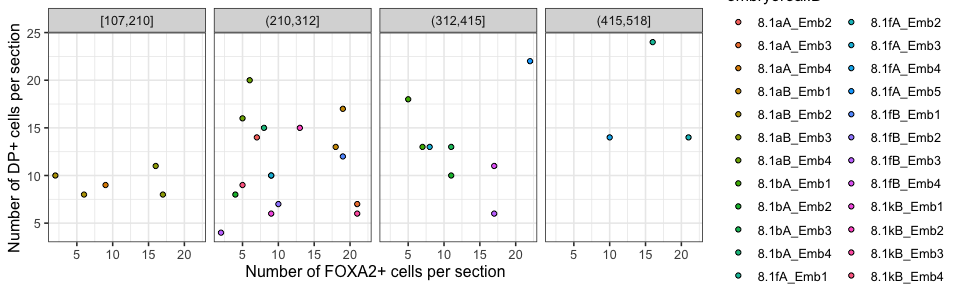
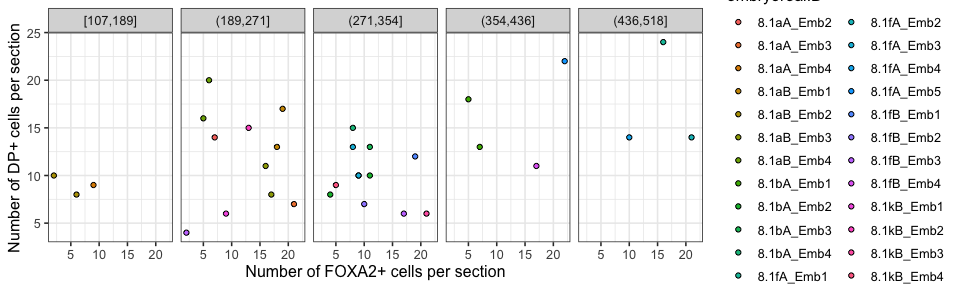
updated cKO imaging

diff --git a/r_files/DP_segment_FOXA2KO.md b/r_files/DP_segment_FOXA2KO.md
@@ -239,10 +239,11 @@ full_classified <- segment_cp_clean %>%
 
 ggplot(full_classified, aes(x=Location_Center_X,y=-Location_Center_Y)) +
   #geom_point(size=0.01) +
-  geom_point(size=0.1, aes(color=celltype))+
+  geom_point(size=0.05, aes(color=celltype))+
   facet_wrap( ~ embryoID) +
   # coord_fixed(ratio = 1, xlim = NULL, ylim = NULL, expand = TRUE, clip = "on") +
-  theme_bw()
+  theme_bw() +theme(panel.grid.major = element_blank(), panel.grid.minor = element_blank(),
+  panel.background = element_blank(), axis.line = element_line(colour = "black"))
 ```
 
 ![](DP_segment_FOXA2KO_files/figure-gfm/unnamed-chunk-8-1.png)<!-- -->
@@ -250,13 +251,32 @@ ggplot(full_classified, aes(x=Location_Center_X,y=-Location_Center_Y)) +
 ``` r
 ggplot(full_classified, aes(x=Location_Center_X,y=-Location_Center_Y)) +
   #geom_point(size=0.01) +
-  geom_point(size=0.1, aes(color=foxa2_positive))+
+  geom_point(size=0.05, aes(color=foxa2_positive))+
   facet_wrap( ~ embryoID) +
   # coord_fixed(ratio = 1, xlim = NULL, ylim = NULL, expand = TRUE, clip = "on") +
-  theme_bw()
+  theme_bw()+theme(panel.grid.major = element_blank(), panel.grid.minor = element_blank(),
+  panel.background = element_blank(), axis.line = element_line(colour = "black"))
 ```
 
 ![](DP_segment_FOXA2KO_files/figure-gfm/unnamed-chunk-8-2.png)<!-- -->
+
+``` r
+# ggplot(full_classified, aes(x=Location_Center_X,y=-Location_Center_Y)) +
+#   #geom_point(size=0.01) +
+#   geom_point(size = 0.3, stroke = 0, aes(color=celltype))+
+#   facet_wrap( ~ embryoID) +
+#   coord_fixed(ratio = 1, xlim = NULL, ylim = NULL, expand = TRUE, clip = "on") +
+#   theme_bw(base_size = 10) +theme(panel.grid.major = element_blank(), panel.grid.minor = element_blank(),
+#   panel.background = element_blank(), axis.line = element_line(colour = "black"))
+# 
+# ggplot(full_classified, aes(x=Location_Center_X,y=-Location_Center_Y)) +
+#   #geom_point(size=0.01) +
+#   geom_point(size = 0.3, stroke = 0, aes(color=foxa2_positive))+
+#   facet_wrap( ~ embryoID) +
+#   coord_fixed(ratio = 1, xlim = NULL, ylim = NULL, expand = TRUE, clip = "on") +
+#   theme_bw(base_size = 10)+theme(panel.grid.major = element_blank(), panel.grid.minor = element_blank(),
+#   panel.background = element_blank(), axis.line = element_line(colour = "black"))
+```
 
 #### Filter background SOX2+ FOXA2+ cells based on position
 
@@ -566,7 +586,7 @@ ggplot(classified_filtered_celltype_and_FOXA2_prop_ave, aes(x=mean_propFOXA2, y=
 
 # 4 bins of equal length
 
-classified_filtered_celltype_and_FOXA2_prop$NTdiscrete <- cut_interval(classified_filtered_celltype_and_FOXA2_prop$NTcells, 4)
+classified_filtered_celltype_and_FOXA2_prop$NTdiscrete <- cut_interval(classified_filtered_celltype_and_FOXA2_prop$NTcells, 5)
 
 ggplot(classified_filtered_celltype_and_FOXA2_prop, aes(x=Foxa2, y=DP)) +
   # geom_linerange(aes(xmin = mean_propFOXA2-sd_propFOXA2,xmax = mean_propFOXA2+sd_propFOXA2), color="#cecece") + 
@@ -579,6 +599,36 @@ ggplot(classified_filtered_celltype_and_FOXA2_prop, aes(x=Foxa2, y=DP)) +
 ```
 
 ![](DP_segment_FOXA2KO_files/figure-gfm/unnamed-chunk-21-1.png)<!-- -->
+
+``` r
+ggplot(classified_filtered_celltype_and_FOXA2_prop, aes(x=Foxa2, y=DP)) +
+  # geom_linerange(aes(xmin = mean_propFOXA2-sd_propFOXA2,xmax = mean_propFOXA2+sd_propFOXA2), color="#cecece") + 
+  # geom_linerange(aes(ymin = mean_propDP+sd_propDP,ymax = mean_propDP-sd_propDP), color="#cecece") + 
+  geom_point(aes(fill=block, shape=emb)) +
+  scale_shape_manual(values = shapes5_manual) +
+  scale_fill_brewer(palette = "Set1") +
+  ylab("Number of DP+ cells per section") +
+  xlab("Number of FOXA2+ cells per section") +
+  facet_wrap(~ NTdiscrete, nrow = 1) +
+  theme_bw(base_size = 12)
+```
+
+![](DP_segment_FOXA2KO_files/figure-gfm/unnamed-chunk-21-2.png)<!-- -->
+
+``` r
+ggplot(classified_filtered_celltype_and_FOXA2_prop, aes(x=Foxa2, y=DP)) +
+  # geom_linerange(aes(xmin = mean_propFOXA2-sd_propFOXA2,xmax = mean_propFOXA2+sd_propFOXA2), color="#cecece") + 
+  # geom_linerange(aes(ymin = mean_propDP+sd_propDP,ymax = mean_propDP-sd_propDP), color="#cecece") + 
+  geom_point(aes(color=block, shape=emb)) +
+  scale_shape_manual(values = shapes5_manual) +
+  scale_color_brewer(palette = "Set1") +
+  ylab("Number of DP+ cells per section") +
+  xlab("Number of FOXA2+ cells per section") +
+  facet_wrap(~ NTdiscrete, nrow = 1) +
+  theme_bw(base_size = 12)
+```
+
+![](DP_segment_FOXA2KO_files/figure-gfm/unnamed-chunk-21-3.png)<!-- -->
 
 ``` r
 sessionInfo()
